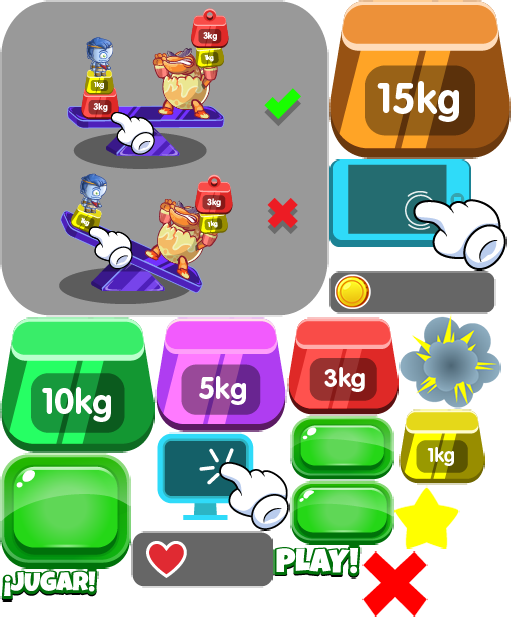
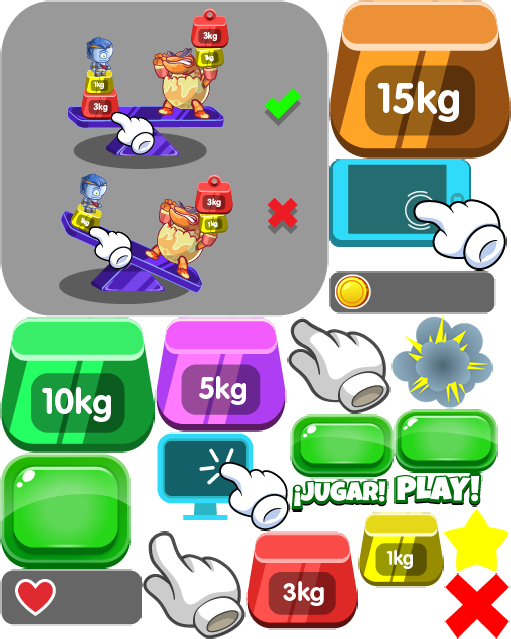
science balance bug fixed. Hands tutorial added

diff --git a/newStructure/minigames/balanceScience/js/scenes/balanceScience.js b/newStructure/minigames/balanceScience/js/scenes/balanceScience.js
@@ -74,6 +74,8 @@ var balanceScience = function(){
     var offWeight, monsterWeight
     var cloudGroup
     var tutoLvl
+    var handsGroup
+    var tweenTiempo
     
 	function loadSounds(){
 		sound.decode(assets.sounds)
@@ -546,7 +548,7 @@ var balanceScience = function(){
         
         timerGroup = game.add.group()
         timerGroup.scale.setTo(1.5)
-        //timerGroup.alpha = 0
+        timerGroup.alpha = 0
         sceneGroup.add(timerGroup)
         
         var clock = game.add.image(0, 0, "atlas.time", "clock")
@@ -573,7 +575,7 @@ var balanceScience = function(){
         
         tweenTiempo = game.add.tween(timeBar.scale).to({x:0,y:.45}, time, Phaser.Easing.Linear.Out, true, 100)
         tweenTiempo.onComplete.add(function(){
-            win()
+            win(true)
         })
     }
     
@@ -592,11 +594,11 @@ var balanceScience = function(){
         
         coin.x = game.world.centerX
         coin.y = game.world.centerY
-        time = 200
+        var timer = 200
 
-        game.add.tween(coin).to({alpha:1}, time, Phaser.Easing.linear, true)
+        game.add.tween(coin).to({alpha:1}, timer, Phaser.Easing.linear, true)
         
-        game.add.tween(coin).to({y:coin.y - 100}, time + 200, Phaser.Easing.Cubic.InOut,true).onComplete.add(function(){
+        game.add.tween(coin).to({y:coin.y - 100}, timer + 200, Phaser.Easing.Cubic.InOut,true).onComplete.add(function(){
            game.add.tween(coin).to({x: pointsBar.centerX, y:pointsBar.centerY}, 200, Phaser.Easing.Cubic.InOut,true).onComplete.add(function(){
                game.add.tween(coin).to({alpha:0}, 200, Phaser.Easing.Cubic.In, true).onComplete.add(function(){
                    addPoint(1)
@@ -636,8 +638,9 @@ var balanceScience = function(){
             offSide.popX = offSide.x
             offSide.popY = offSide.y
             offSide.inputEnabled = true
-            offSide.input.enableDrag()
-            offSide.events.onDragStop.add(putThatThingDown,this)
+            //offSide.input.enableDrag()
+            //offSide.events.onDragStop.add(putThatThingDown,this)
+            offSide.events.onInputDown.add(putThatThingDown,this)
             pivot++
             
             var monsterSide = monsterGroup.create(0, 90, 'atlas.balanceScience', 'weight' + w)
@@ -669,6 +672,10 @@ var balanceScience = function(){
 
         offWeight += mass.weight
         top++
+        
+        if(handsGroup !== undefined){
+            posHand(okGroup)
+        }
     }
     
     function sortOnDrop(){
@@ -748,29 +755,30 @@ var balanceScience = function(){
         btn.parent.children[2].scale.setTo(1)
     }
     
-    function win(){
+    function win(ans){
         
         gameActive = false
-        //stopTimer()
+        stopTimer()
         offGroup.setAll('inputEnabled', false)
+        
+        if(ans){
+            offWeight = -1
+        }
         
         if(offWeight === monsterWeight){
             sound.play('rightChoice')
             addCoin()
             balance.setAnimationByName(0, "WIN", true)
-            time = 6000
-            if(lvl < 6){
-                lvl++
-            }
-            else{
-                time -= 100
+            lvl = game.rnd.integerInRange(1, 4)
+            if(pointsBar.number > 8){
+                time -= 300
             }
         }
         else{
             balance.setAnimationByName(0, "LOSE", false)
             balance.addAnimationByName(0, "LOSESTILL", true)
             sound.play('throw')
-            //missPoint()
+            missPoint()
         }
         
         game.time.events.add(2800,function(){
@@ -816,7 +824,7 @@ var balanceScience = function(){
          game.time.events.add(startTime,function(){
              offGroup.setAll('inputEnabled', true)
              gameActive = true
-             //startTimer(time)
+             startTimer(time)
             },this)
     }
     
@@ -856,7 +864,7 @@ var balanceScience = function(){
         
         var index 
         var element
-
+    
         for(var w = 0; w < lvl; w++){
             index = getWeight(weight[w])
             element = monsterGroup.children[index]
@@ -952,6 +960,7 @@ var balanceScience = function(){
 
             offGroup.children[rnd].tint = 0xffffff
             offGroup.children[rnd].inputEnabled = true
+            posHand(offGroup.children[rnd])
         }
         else{
             aux = monsterGroup.children[4]
@@ -975,7 +984,8 @@ var balanceScience = function(){
             balance.setAnimationByName(0, "WIN", true)
             sound.play('rightChoice')
             tutoLvl++
-
+            handsGroup.alpha = 0
+            
            // game.time.events.add(500,function(){
                 
             //})
@@ -997,6 +1007,7 @@ var balanceScience = function(){
                     else{
                         game.add.tween(timerGroup).to({alpha:1}, 400, Phaser.Easing.linear, true)
                         offGroup.setAll("tint", 0xffffff)
+                        handsGroup.destroy()
                         initGame()
                     }                                                                                               
                 })
@@ -1005,6 +1016,37 @@ var balanceScience = function(){
         else{
             sound.play("wrongAnswer")
         }
+    }
+    
+    function initHand(){
+        
+        handsGroup = game.add.group()
+        handsGroup.alpha = 0
+        sceneGroup.add(handsGroup)
+        
+        var handUp = handsGroup.create(0, 0, 'atlas.balanceScience', 'handUp') // 0
+        handUp.alpha = 0
+        
+        var handDown = handsGroup.create(0, 0, 'atlas.balanceScience', 'handDown') // 1
+        handDown.alpha = 0
+         
+        handsGroup.tween = game.add.tween(handsGroup).to({y:handsGroup.y + 10}, 400, Phaser.Easing.linear, true)
+            
+        handsGroup.tween.onComplete.add(function() 
+        {
+            changeImage(0, handsGroup)
+            game.add.tween(handsGroup).to({y:handsGroup.y - 10}, 400, Phaser.Easing.linear, true).onComplete.add(function(){
+                handsGroup.tween.start()
+                changeImage(1, handsGroup)
+            })
+        })
+    }
+    
+    function posHand(pos){
+        
+        handsGroup.setAll("x", pos.x)
+        handsGroup.setAll("y", pos.y - 40)
+        handsGroup.alpha = 1
     }
 	
 	return {
@@ -1043,6 +1085,7 @@ var balanceScience = function(){
             ok()
             flyingCloud()
             initCoin()
+            initHand()
             createParticles()
 			
 			buttons.getButton(balanceSong,sceneGroup)
